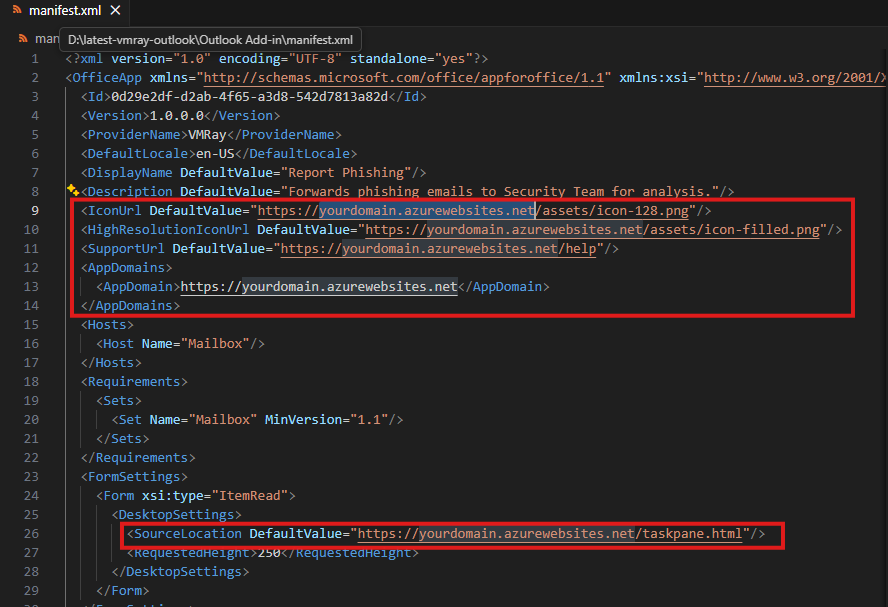
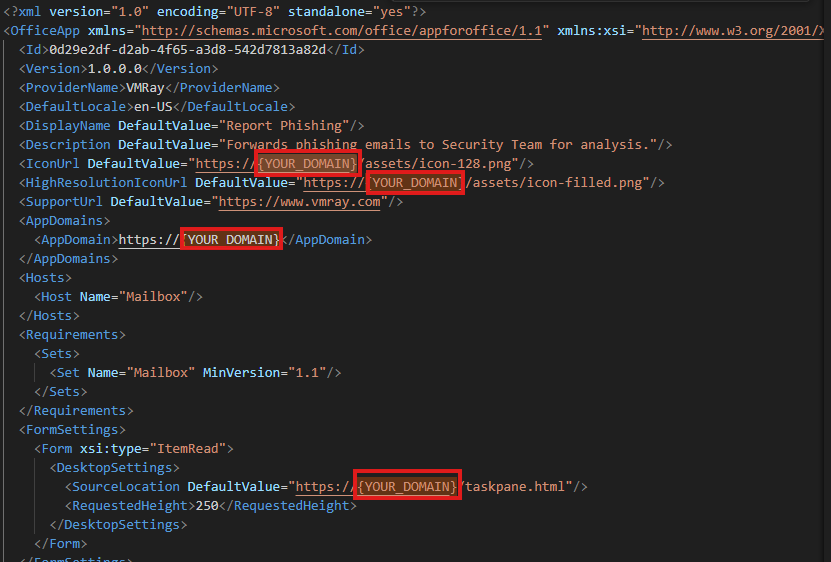
readme changes

Changed region(s): [[0.0, 0.0, 1.0, 1.0]]

diff --git a/README.md b/README.md
@@ -128,10 +128,11 @@ Note: You will not be able to view Client Secret after sometime. Save it securel
 ![11](Images/11.png)
 
 5. Navigate to `Settings → Environment Variables` and click on `+ Add`
-6. Fill `name` as `APP_DOMAIN` and value as above copied `Domain` value.
+6. Fill `name` as `APP_DOMAIN` and value as above copied `Domain` value. Click `Apply`
 
 ![12](Images/12.png)
 
+7. Click `Apply` and `Confirm` 
 ---
 
 ## Phase 3 – Configure App Registration 
@@ -151,13 +152,13 @@ https://YOUR-DOMAIN/fallbackauthdialog.html
 
 ![14](Images/14.png)
 
-7. Click **Set** (next to Application ID URI)
+7. Click **Add** (next to Application ID URI)
 
 * Edit manually and add domain after `api://` like below:
 ```
 api://YOUR-DOMAIN/CLIENT_ID
 ```
-8. Click **Save**
+8. Click **Save** and copy above Application ID URI for later.
 9. Click **+ Add a scope**
 
 ![15](Images/15.png)
@@ -192,7 +193,7 @@ api://YOUR-DOMAIN/CLIENT_ID
 
 # Phase 4 – Update manifest.xml
 
-* Open `manifest.xml` file and update all the highlighted domain values below with your Web App domain.
+* Open `manifest.xml` file and replace `{YOUR_DOMAIN}` with your Web App domain.
 
 ![17](Images/17.png)
 
@@ -208,7 +209,7 @@ api://YOUR-DOMAIN/CLIENT_ID
     <IconUrl DefaultValue="https://outlook-addin-vmray.azurewebsites.net/assets/icon-128.png"/>
 ```
 * #### Next update `WebApplicationInfo` section with 
-    `Client_Id` and `Application ID URI`  value created in Phase 3 step 7
+    `Client_Id` and `Application ID URI`  value created in Phase 3 step 8
 
 ![19](Images/19.png)
 
